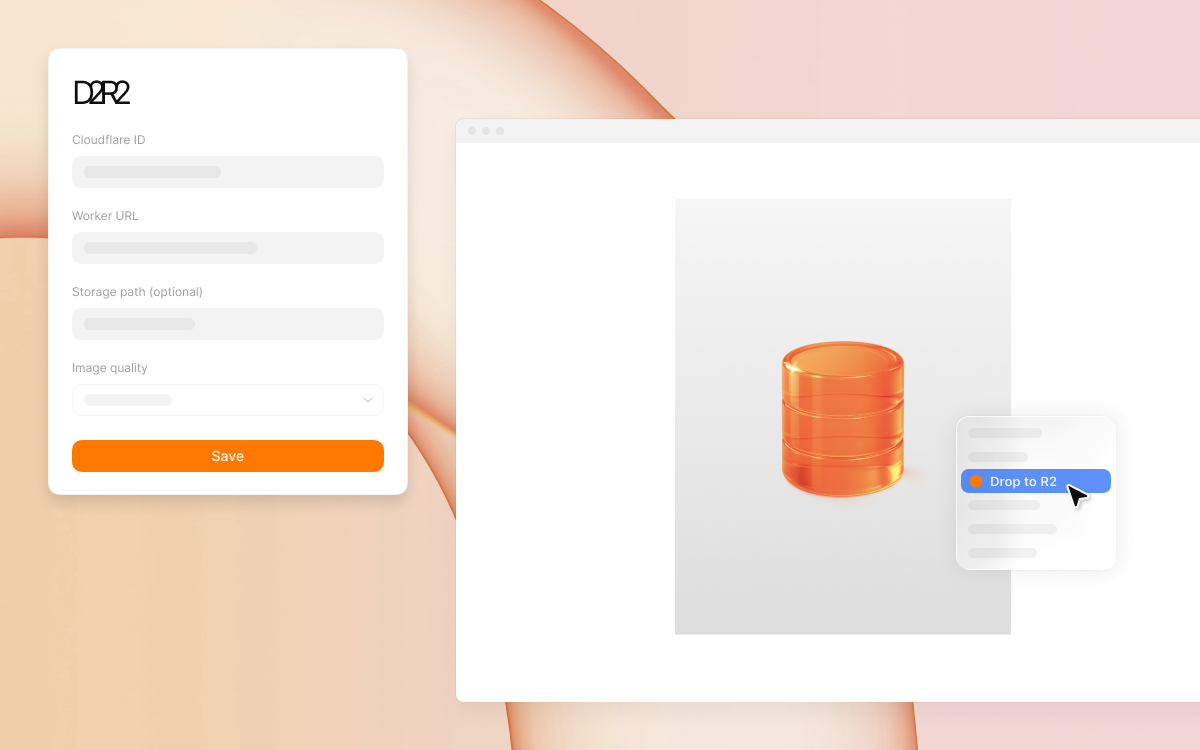
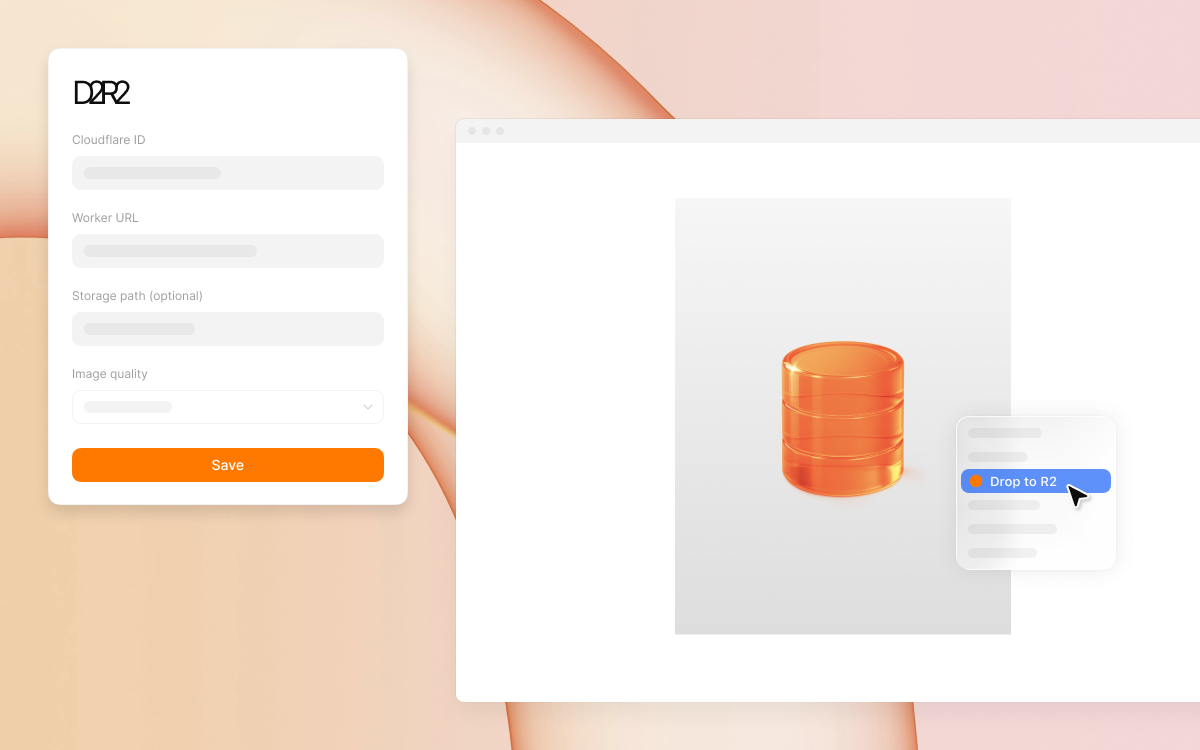
Merge pull request #143 from the3ash/codex/settings-edit-flow-and-popup-styling
Codex/settings edit flow and popup styling

Pull request: Codex/settings edit flow and popup styling

diff --git a/entrypoints/popup/style.css b/entrypoints/popup/style.css
@@ -60,8 +60,7 @@ body {
   background-color: var(--orange);
   color: var(--text-oncolor);
   border: none;
-  border-radius: 14px;
-  corner-shape: squircle;
+  border-radius: 9px;
   padding: 0 20px;
   height: 32px;
   font-weight: 500;
@@ -84,8 +83,7 @@ body {
   margin-top: 20px;
   padding: 12px;
   background-color: color-mix(in srgb, var(--orange) 12%, transparent);
-  border-radius: 20px;
-  corner-shape: squircle;
+  border-radius: 12px;
   display: flex;
   align-items: flex-start;
   color: var(--orange);
@@ -198,14 +196,13 @@ label {
 input[type='text'],
 input[type='url'] {
   width: 100%;
-  height: 32px;
+  height: 36px;
   padding: 0 12px;
-  border-radius: 14px;
-  corner-shape: squircle;
+  border-radius: 10px;
   color: var(--fg);
   background-color: color-mix(in srgb, var(--fg) 5%, transparent);
   border: none;
-  transition: background-color 0.15s ease-out;
+  transition: background-color 0.125s ease-out;
 }
 
 input[type='text']:hover:not(:disabled):not(:focus),
@@ -253,10 +250,9 @@ input::placeholder {
 
 .dropdown-trigger {
   width: 100%;
-  height: 32px;
+  height: 36px;
   padding: 0 12px;
-  border-radius: 14px;
-  corner-shape: squircle;
+  border-radius: 10px;
   color: var(--fg);
   background-color: transparent;
   border: 1px solid color-mix(in srgb, var(--fg) 8%, transparent);
@@ -264,7 +260,7 @@ input::placeholder {
   align-items: center;
   justify-content: space-between;
   cursor: pointer;
-  transition: border-color 0.15s ease-out;
+  transition: border-color 0.125s ease-out;
 }
 
 .dropdown-trigger:hover:not(:disabled):not([aria-expanded='true']) {
@@ -309,8 +305,7 @@ input::placeholder {
   z-index: 50;
   background-color: var(--bg);
   border: 1px solid color-mix(in srgb, var(--text-oncolor) 12%, transparent);
-  border-radius: 16px;
-  corner-shape: squircle;
+  border-radius: 12px;
   padding: 4px;
   box-shadow: 0 12px 24px rgba(0, 0, 0, 0.12);
 }
@@ -324,20 +319,19 @@ input::placeholder {
 
 .dropdown-option {
   width: 100%;
-  height: 28px;
+  height: 30px;
   text-align: left;
   padding: 0 12px;
   border: none;
   background: transparent;
   color: var(--fg);
-  border-radius: 12px;
-  corner-shape: squircle;
+  border-radius: 8px;
   cursor: pointer;
   display: flex;
   align-items: center;
   justify-content: space-between;
   gap: 10px;
-  transition: background-color 0.15s ease-out;
+  transition: background-color 0.125s ease-out;
 }
 
 .dropdown-option:hover {
@@ -363,13 +357,11 @@ input::placeholder {
 
 .save-btn {
   width: 100%;
-  height: 32px;
-  margin-top: 8px;
+  height: 36px;
   background-color: var(--orange);
   color: var(--text-oncolor);
   border: none;
-  border-radius: 14px;
-  corner-shape: squircle;
+  border-radius: 10px;
   cursor: pointer;
   transition: background-color 0.2s ease-in;
 }
@@ -382,11 +374,55 @@ input::placeholder {
 .save-btn-container {
   position: relative;
   width: 100%;
+  margin-top: 8px;
+  display: grid;
+  grid-template-columns: minmax(0, 1fr);
+  gap: 8px;
+}
+
+.save-btn-container--with-cancel {
+  grid-template-columns: repeat(2, minmax(0, 1fr));
+}
+
+.cancel-btn {
+  width: 100%;
+  height: 36px;
+  padding: 0 12px;
+  border-radius: 10px;
+  color: var(--fg);
+  background-color: transparent;
+  border: 1px solid color-mix(in srgb, var(--fg) 8%, transparent);
+  cursor: pointer;
+  transition:
+    border-color 0.125s ease-out,
+    background-color 0.125s ease-out;
+}
+
+.cancel-btn:hover:not(:disabled) {
+  background-color: color-mix(in srgb, var(--fg) 4%, transparent);
+}
+
+.cancel-btn:focus {
+  outline: none;
+}
+
+.cancel-btn:focus-visible:not(:disabled) {
+  border-color: color-mix(in srgb, var(--fg) 36%, transparent);
+}
+
+.cancel-btn:disabled,
+.save-btn:disabled:not(.save-btn--saving) {
+  opacity: 0.24;
+  cursor: not-allowed;
+}
+
+.save-btn--saving {
+  cursor: not-allowed;
 }
 
 .error-message-text {
   position: absolute;
-  bottom: 40px;
+  bottom: 44px;
   left: 0;
   right: 0;
   color: var(--orange);

diff --git a/entrypoints/popup/App.tsx b/entrypoints/popup/App.tsx
@@ -9,6 +9,7 @@ import './style.css'
 
 export default function App() {
   const [config, setConfig] = useState<AppConfig | null>(null)
+  const [savedConfig, setSavedConfig] = useState<AppConfig | null>(null)
   const [loading, setLoading] = useState(true)
   const [error, setError] = useState<string | null>(null)
   const [isSaving, setIsSaving] = useState(false)
@@ -20,6 +21,7 @@ export default function App() {
       try {
         const data = await getConfig()
         setConfig(data)
+        setSavedConfig(data)
         setError(null)
 
         if (data && data.workerUrl && data.cloudflareId) {
@@ -41,11 +43,23 @@ export default function App() {
     return !!(config?.workerUrl?.trim() && config?.cloudflareId?.trim())
   }
 
+  const isFormDirty = (): boolean => {
+    if (!config || !savedConfig) return false
+
+    return (
+      config.cloudflareId !== savedConfig.cloudflareId ||
+      config.workerUrl !== savedConfig.workerUrl ||
+      config.folderPath !== savedConfig.folderPath ||
+      config.hideRoot !== savedConfig.hideRoot ||
+      config.imageQuality !== savedConfig.imageQuality
+    )
+  }
+
   // Save configuration and test connection
   const saveAndTestConnection = async (e: React.FormEvent) => {
     e.preventDefault()
 
-    if (!config) return
+    if (!config || !isFormDirty()) return
 
     if (!config.workerUrl?.trim() || !config.cloudflareId?.trim()) {
       return
@@ -58,11 +72,16 @@ export default function App() {
       let workerUrl = config.workerUrl.trim()
       if (!workerUrl.startsWith('http://') && !workerUrl.startsWith('https://')) {
         workerUrl = `https://${workerUrl}`
-        setConfig((prev) => (prev ? { ...prev, workerUrl } : null))
+      }
+
+      const normalizedConfig = {
+        ...config,
+        cloudflareId: config.cloudflareId.trim(),
+        workerUrl,
       }
 
       try {
-        await testWorkerConnection(workerUrl, config.cloudflareId.trim(), location.origin)
+        await testWorkerConnection(workerUrl, normalizedConfig.cloudflareId, location.origin)
       } catch (err) {
         if (err instanceof Error && err.name === 'AbortError') {
           throw new Error('Connection timeout, try again', { cause: err })
@@ -70,7 +89,9 @@ export default function App() {
         throw err
       }
 
-      await saveConfig(config)
+      const persistedConfig = await saveConfig(normalizedConfig)
+      setConfig(persistedConfig)
+      setSavedConfig(persistedConfig)
       setIsViewMode(true)
     } catch (err) {
       setError(
@@ -88,6 +109,14 @@ export default function App() {
   // Switch to edit mode
   const handleEdit = () => {
     setIsViewMode(false)
+  }
+
+  const handleCancel = () => {
+    if (!savedConfig) return
+
+    setConfig(savedConfig)
+    setError(null)
+    setIsViewMode(true)
   }
 
   if (loading) {
@@ -122,6 +151,8 @@ export default function App() {
           isSaving={isSaving}
           error={error}
           isFormSubmittable={isFormSubmittable()}
+          isFormDirty={isFormDirty()}
+          onCancel={savedConfig?.workerUrl && savedConfig.cloudflareId ? handleCancel : undefined}
           onSubmit={saveAndTestConnection}
         />
       )}

diff --git a/entrypoints/popup/components/SettingsForm.tsx b/entrypoints/popup/components/SettingsForm.tsx
@@ -9,6 +9,8 @@ type Props = {
   isSaving: boolean
   error: string | null
   isFormSubmittable: boolean
+  isFormDirty: boolean
+  onCancel?: () => void
   onSubmit: (e: React.FormEvent) => void | Promise<void>
 }
 
@@ -25,9 +27,12 @@ export function SettingsForm({
   isSaving,
   error,
   isFormSubmittable,
+  isFormDirty,
+  onCancel,
   onSubmit,
 }: Props) {
   const qualityValue = String(config?.imageQuality ?? 0)
+  const canSave = isFormSubmittable && isFormDirty && !isSaving
 
   return (
     <form onSubmit={onSubmit} autoComplete="off">
@@ -123,16 +128,23 @@ export function SettingsForm({
         {qualityValue !== '0' && <div className="input-help">PNG may not compress much.</div>}
       </div>
 
-      <div className="save-btn-container">
+      <div className={`save-btn-container${onCancel ? ' save-btn-container--with-cancel' : ''}`}>
         {error && <div className="error-message-text">{error}</div>}
+        {onCancel && (
+          <button
+            type="button"
+            className="cancel-btn font-body-m"
+            disabled={isSaving}
+            onClick={onCancel}
+          >
+            Cancel
+          </button>
+        )}
         <button
           type="submit"
-          className="save-btn font-body-m"
-          disabled={isSaving || !isFormSubmittable}
-          style={{
-            opacity: isFormSubmittable ? 1 : 0.24,
-            cursor: isFormSubmittable ? 'pointer' : 'not-allowed',
-          }}
+          className={`save-btn font-body-m${isSaving ? ' save-btn--saving' : ''}`}
+          disabled={!canSave}
+          aria-busy={isSaving}
         >
           {isSaving ? <SpinnerIcon className="loading-icon" /> : 'Save'}
         </button>